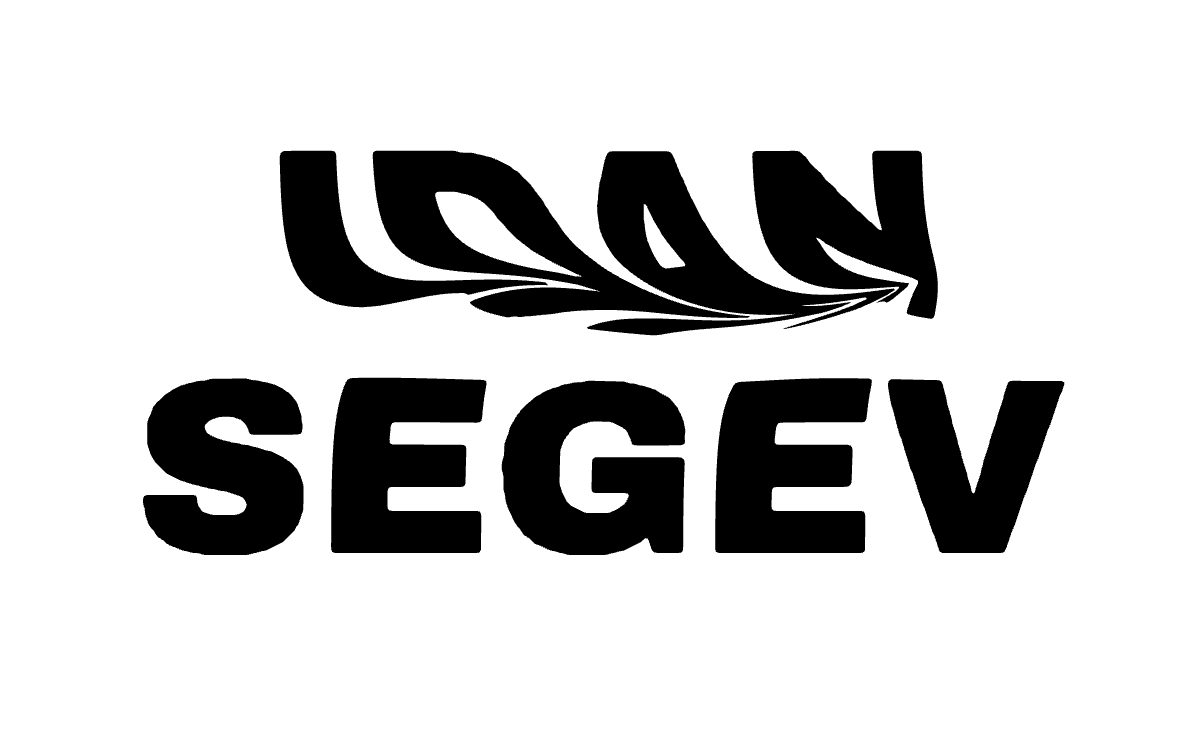
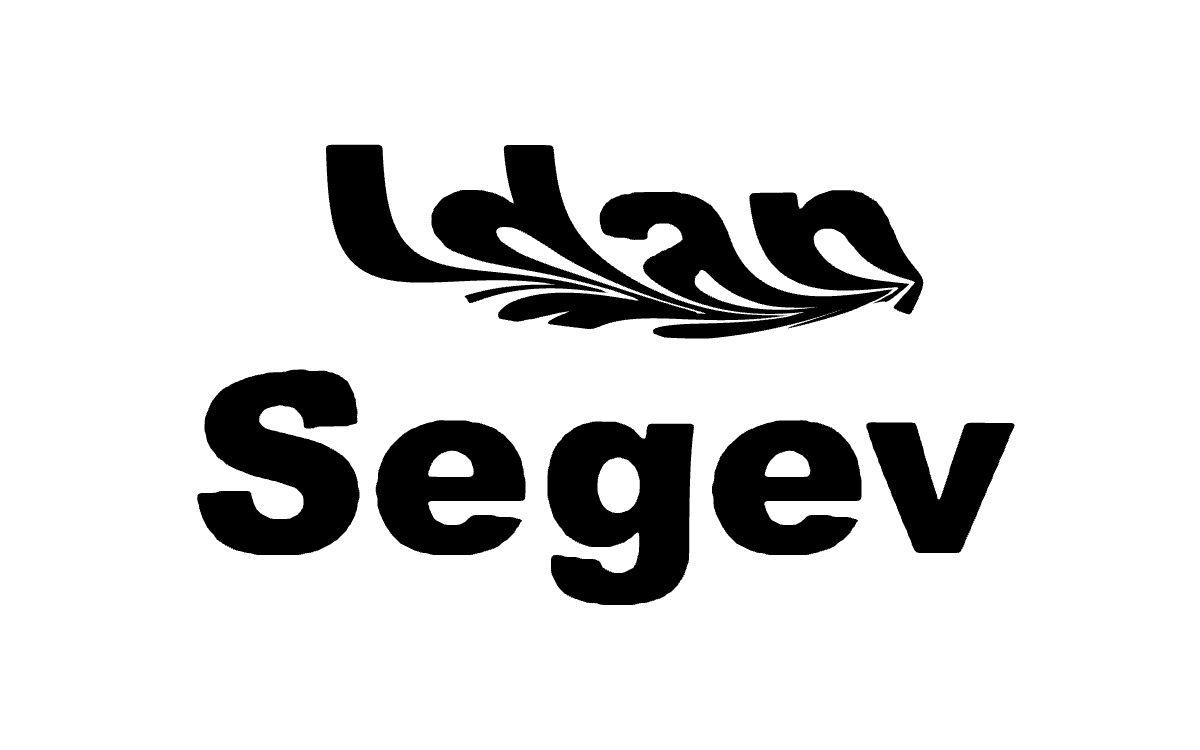
Marbled: lock and publish (Arial Black 'Idan Segev', springy hover stir, give on press)

Changed region(s): [[0.1233, 0.4907, 0.8942, 0.828], [0.2158, 0.184, 0.8017, 0.46]]

diff --git a/src/posters/marbled.js b/src/posters/marbled.js
@@ -15,7 +15,8 @@ import { createReveal, grid, corners, label, titleBlock, ink as rvInk } from './
 import { pressTracker, TAP, DOUBLE_MS, REFORM_DELAY_MS } from '../gestures.js';
 
 const MAXPTS = 90000;
-const FACE = '900 100px Archivo, "Arial Black", "Helvetica Neue", sans-serif';
+const FACE = '900 100px "Arial Black", Helvetica, "Helvetica Neue", Arial, sans-serif';
+const STIR = { cell: 10, sigma: 32, kick: 14, cap: 10, max: 20, k: 85, c: 7 };   // hover stir: a springy field under the ink, so it is drawn displaced and settles back; the shape is never changed
 const DEF = { rings: 1, teeth: 1, gap: 46, sharp: 18, pull: 0.85, drop: 54 };
 
 export async function mount(stage) {
@@ -33,10 +34,9 @@ export async function mount(stage) {
 
   // ---------- the name as ink ----------
   async function nameShape() {
-    try { await Promise.race([document.fonts.load('900 100px Archivo'), new Promise((r) => setTimeout(r, 2500))]); } catch (e) { /* the fallback face */ }
     const G = 2, gw = Math.ceil(W / G) + 2, gh = Math.ceil(H / G) + 2;
     const m = document.createElement('canvas'); m.width = gw; m.height = gh; const x = m.getContext('2d', { willReadFrequently: true });
-    const portrait = W / H < 0.8, lines = portrait ? ['IDAN', 'SE', 'GEV'] : ['IDAN', 'SEGEV'];
+    const portrait = W / H < 0.8, lines = portrait ? ['Idan', 'Se', 'gev'] : ['Idan', 'Segev'];
     x.font = FACE; const widest = Math.max(...lines.map((l) => x.measureText(l).width));
     const size = Math.min(W * 0.82 / widest * 100, H * (portrait ? 0.22 : 0.33)) / G;
     x.font = FACE.replace('100px', size + 'px'); x.textAlign = 'center'; x.fillStyle = '#000';
@@ -115,13 +115,69 @@ export async function mount(stage) {
     }
   }
 
+  // ---------- give: a held finger makes the ink yield a little and spring back, drawn only, the shape itself is never changed ----------
+  const GIVE_R = 95, GIVE_PX = 4.5;
+  const gv = { x: 0, y: 0, a: 0, v: 0, to: 0 };
+  let giving = false;
+  let sg = null, stirring = false;
+  function field() {
+    const gw = Math.ceil(W / STIR.cell) + 2, gh = Math.ceil(H / STIR.cell) + 2;
+    if (!sg || sg.gw !== gw || sg.gh !== gh) sg = { gw, gh, d: new Float32Array(gw * gh * 2), v: new Float32Array(gw * gh * 2) };
+    return sg;
+  }
+  function stir(ax, ay, bx, by) {                                     // a push into the field: velocity, so the ink swings out and comes back
+    const f = field(), dx = bx - ax, dy = by - ay, len = Math.hypot(dx, dy); if (len < 0.3) return;
+    const m = Math.min(len, STIR.cap) / len, ux = dx * m, uy = dy * m, C = STIR.cell, R = STIR.sigma * 2.2, s2 = STIR.sigma * STIR.sigma;
+    const i0 = Math.max(0, Math.floor((bx - R) / C)), i1 = Math.min(f.gw - 1, Math.ceil((bx + R) / C)), j0 = Math.max(0, Math.floor((by - R) / C)), j1 = Math.min(f.gh - 1, Math.ceil((by + R) / C));
+    for (let j = j0; j <= j1; j++) for (let i = i0; i <= i1; i++) {
+      const ex = i * C - bx, ey = j * C - by, w = Math.exp(-(ex * ex + ey * ey) / s2) * STIR.kick, o = (j * f.gw + i) * 2;
+      f.v[o] += ux * w; f.v[o + 1] += uy * w;
+    }
+    stirring = true;
+  }
+  function stepStir(dt) {
+    if (!stirring || !sg) return;
+    const h = Math.min(dt, 1 / 30), { d, v } = sg; let live = 0;
+    for (let k = 0; k < d.length; k++) {
+      v[k] += (-STIR.k * d[k] - STIR.c * v[k]) * h; d[k] += v[k] * h;
+      if (d[k] > STIR.max) d[k] = STIR.max; else if (d[k] < -STIR.max) d[k] = -STIR.max;
+      live = Math.max(live, Math.abs(d[k]) + Math.abs(v[k]) * 0.05);
+    }
+    if (live < 0.02) { d.fill(0); v.fill(0); stirring = false; }
+    dirty = true;
+  }
+  function lift(px, py) {                                             // the field under a point, bilinear
+    const C = STIR.cell, fx = px / C, fy = py / C, i = Math.floor(fx), j = Math.floor(fy);
+    if (i < 0 || j < 0 || i >= sg.gw - 1 || j >= sg.gh - 1) return [px, py];
+    const tx = fx - i, ty = fy - j, a = (j * sg.gw + i) * 2, b = a + 2, c = a + sg.gw * 2, e = c + 2, d = sg.d;
+    const w0 = (1 - tx) * (1 - ty), w1 = tx * (1 - ty), w2 = (1 - tx) * ty, w3 = tx * ty;
+    return [px + d[a] * w0 + d[b] * w1 + d[c] * w2 + d[e] * w3, py + d[a + 1] * w0 + d[b + 1] * w1 + d[c + 1] * w2 + d[e + 1] * w3];
+  }
+  function give(px, py) {
+    const dx = px - gv.x, dy = py - gv.y, d2 = dx * dx + dy * dy;
+    if (d2 > GIVE_R * GIVE_R * 6) return [px, py];
+    const d = Math.sqrt(d2) || 1, w = Math.exp(-d2 / (GIVE_R * GIVE_R)), z = gv.a * w * Math.cos(d / 26);   // a soft ring-shaped swell, like a ripple in gel
+    return [px + dx / d * z, py + dy / d * z];
+  }
+  function stepGive(dt) {
+    if (stage.reduced) return;
+    const h = Math.min(dt, 1 / 30);
+    gv.v += (170 * (gv.to - gv.a) - 7.5 * gv.v) * h; gv.a += gv.v * h;
+    const was = giving; giving = Math.abs(gv.a) > 0.02 || Math.abs(gv.v) > 0.2 || gv.to !== 0;
+    if (giving || was) dirty = true;
+  }
+
   // ---------- drawing ----------
   function draw() {
     ctx.setTransform(stage.pw / stage.W, 0, 0, stage.ph / stage.H, 0, 0);
     ctx.fillStyle = paperCss; ctx.fillRect(0, 0, W, H);
     for (const sh of shapes) {
       const path = new Path2D();
-      for (const l of sh.loops) { path.moveTo(l[0], l[1]); for (let k = 2; k < l.length; k += 2) path.lineTo(l[k], l[k + 1]); path.closePath(); }
+      for (const l of sh.loops) {
+        if (!giving && !stirring) { path.moveTo(l[0], l[1]); for (let k = 2; k < l.length; k += 2) path.lineTo(l[k], l[k + 1]); path.closePath(); continue; }
+        for (let k = 0; k < l.length; k += 2) { let q = giving ? give(l[k], l[k + 1]) : [l[k], l[k + 1]]; if (stirring) q = lift(q[0], q[1]); k ? path.lineTo(q[0], q[1]) : path.moveTo(q[0], q[1]); }
+        path.closePath();
+      }
       ctx.fillStyle = sh.tone === 'water' ? paperCss : sh.tone === 'ink' ? inkCss : sh.tone;
       ctx.fill(path, 'evenodd');
     }
@@ -129,7 +185,7 @@ export async function mount(stage) {
 
   // ---------- touch ----------
   const press = pressTracker();
-  let combing = false, last = null, lastTap = 0, pointer = null;
+  let hov = null, combing = false, last = null, lastTap = 0, pointer = null;
   const tapDrop = (x, y) => {
     const tone = col && col.woke ? col.css(stage.rand()) : 'ink';
     drop(x, y, P.drop, tone);
@@ -137,17 +193,22 @@ export async function mount(stage) {
   };
   offs.push(stage.on('down', (q, e) => {
     if (!press.down(q, e.pointerId)) return;
-    touched = true; demo = null; pointer = e.pointerId; last = { x: q.x, y: q.y }; combing = false;
+    touched = true; demo = null; pointer = e.pointerId; last = { x: q.x, y: q.y }; combing = false; gv.x = q.x; gv.y = q.y; gv.to = GIVE_PX;
   }));
   offs.push(stage.on('move', (q, e) => {
+    if (pointer === null) {                                           // a mouse moving over the ink, no button: stir it gently
+      if (e.pointerType !== 'mouse' || demo || stage.reduced || e.buttons) { hov = null; return; }
+      if (hov) { const mv = Math.hypot(q.x - hov.x, q.y - hov.y); if (mv < 90) { stir(hov.x, hov.y, q.x, q.y); touched = true; } }
+      hov = { x: q.x, y: q.y }; return;
+    }
     if (e.pointerId !== pointer) return;
     press.move(q, e.pointerId);
-    if (!combing && press.moved > TAP.px) combing = true;
+    if (!combing && press.moved > TAP.px) { combing = true; gv.to = 0; }
     if (combing) { tine(last.x, last.y, q.x, q.y); last = { x: q.x, y: q.y }; }
   }));
   offs.push(stage.on('up', (q, e) => {
     if (e.pointerId !== pointer) return;
-    const r = press.up(q, e.pointerId); pointer = null;
+    const r = press.up(q, e.pointerId); pointer = null; gv.to = 0;
     if (!r || combing) { combing = false; return; }
     if (r.tap) {
       tapDrop(q.x, q.y);
@@ -212,7 +273,7 @@ export async function mount(stage) {
   offs.push(stage.on('resize', () => { W = stage.W; H = stage.H; restart(); }));
   offs.push(stage.frame((dt) => {
     if (!touched && !demo && !stage.reduced && performance.now() - born > 3500 && !startDemo.done) { startDemo.done = true; startDemo(); }
-    stepDemo(dt);
+    stepDemo(dt); stepGive(dt); stepStir(dt);
     if (dirty) { dirty = false; draw(); }
     rv.draw();
   }));

diff --git a/docs/posters/prototypes/marbled.html b/docs/posters/prototypes/marbled.html
@@ -158,28 +158,47 @@ button:focus-visible, input:focus-visible { outline: 2px solid var(--ink); outli
   }
 
   // ---------- drawing ----------
+  // give: a held finger makes the ink yield a little and spring back (drawn only)
+  const GIVE_R = 95, GIVE_PX = 4.5, gv = { x: 0, y: 0, a: 0, v: 0, to: 0 }; let giving = false, lastT = performance.now();
+  function give(px, py) {
+    const dx = px - gv.x, dy = py - gv.y, d2 = dx * dx + dy * dy;
+    if (d2 > GIVE_R * GIVE_R * 6) return [px, py];
+    const d = Math.sqrt(d2) || 1, z = gv.a * Math.exp(-d2 / (GIVE_R * GIVE_R)) * Math.cos(d / 26);
+    return [px + dx / d * z, py + dy / d * z];
+  }
+  function stepGive() {
+    const now = performance.now(), h = Math.min((now - lastT) / 1000, 1 / 30); lastT = now;
+    gv.v += (170 * (gv.to - gv.a) - 7.5 * gv.v) * h; gv.a += gv.v * h;
+    const was = giving; giving = Math.abs(gv.a) > 0.02 || Math.abs(gv.v) > 0.2 || gv.to !== 0;
+    if (giving || was) dirty = true;
+  }
   function draw() {
     ctx.setTransform(dpr, 0, 0, dpr, 0, 0);
     ctx.fillStyle = page; ctx.fillRect(0, 0, W, H);
     const pal = PAL[dark ? 'dark' : 'light'];
     for (const sh of shapes) {
       const path = new Path2D();
-      for (const l of sh.loops) { path.moveTo(l[0], l[1]); for (let k = 2; k < l.length; k += 2) path.lineTo(l[k], l[k + 1]); path.closePath(); }
+      for (const l of sh.loops) {
+        if (!giving) { path.moveTo(l[0], l[1]); for (let k = 2; k < l.length; k += 2) path.lineTo(l[k], l[k + 1]); path.closePath(); continue; }
+        for (let k = 0; k < l.length; k += 2) { const q = give(l[k], l[k + 1]); k ? path.lineTo(q[0], q[1]) : path.moveTo(q[0], q[1]); }
+        path.closePath();
+      }
       ctx.fillStyle = sh.tone === 'water' ? page : sh.tone === 'ink' || !P.colour ? ink : pal[sh.tone % 6];
       ctx.fill(path, 'evenodd');
     }
   }
-  function frame() { if (dirty) { dirty = false; draw(); } requestAnimationFrame(frame); }
+  function frame() { stepGive(); if (dirty) { dirty = false; draw(); } requestAnimationFrame(frame); }
 
   // ---------- touch: a tap drops ink; a drag combs ----------
   let down = null, last = null, combing = false;
-  cv.addEventListener('pointerdown', (e) => { down = { x: e.clientX, y: e.clientY, t: performance.now() }; last = { x: e.clientX, y: e.clientY }; combing = false; try { cv.setPointerCapture(e.pointerId); } catch (err) { /* fine */ } });
+  cv.addEventListener('pointerdown', (e) => { down = { x: e.clientX, y: e.clientY, t: performance.now() }; last = { x: e.clientX, y: e.clientY }; combing = false; gv.x = e.clientX; gv.y = e.clientY; gv.to = GIVE_PX; try { cv.setPointerCapture(e.pointerId); } catch (err) { /* fine */ } });
   cv.addEventListener('pointermove', (e) => {
     if (!down) return;
-    if (!combing && Math.hypot(e.clientX - down.x, e.clientY - down.y) > 8) combing = true;
+    if (!combing && Math.hypot(e.clientX - down.x, e.clientY - down.y) > 8) { combing = true; gv.to = 0; }
     if (combing) { tine(last.x, last.y, e.clientX, e.clientY); last = { x: e.clientX, y: e.clientY }; }
   });
   cv.addEventListener('pointerup', (e) => {
+    gv.to = 0;
     if (down && !combing && performance.now() - down.t < 400) {
       const tone = P.colour ? drops % 6 : 'ink'; drops++;
       drop(e.clientX, e.clientY, P.drop, tone);
@@ -187,7 +206,7 @@ button:focus-visible, input:focus-visible { outline: 2px solid var(--ink); outli
     }
     down = null; combing = false;
   });
-  cv.addEventListener('pointercancel', () => { down = null; combing = false; });
+  cv.addEventListener('pointercancel', () => { gv.to = 0; down = null; combing = false; });
 
   // ---------- settings (for this test only) ----------
   const fmt = { teeth: (v) => v, gap: (v) => v + ' px', sharp: (v) => v + ' px', pull: (v) => '×' + (+v).toFixed(2), drop: (v) => v + ' px' };

diff --git a/src/posters/index.js b/src/posters/index.js
@@ -230,12 +230,11 @@ export const POSTERS = [
     colour: 'native',            // colours itself (src/colour.js colourOf): the shell adds no overlay
     title: 'Marbled',
     words: ['Idan', 'Segev'],
-    blurb: 'The name floats as ink on water. Drag to comb it into marbled patterns; tap to drop more ink.',
+    blurb: 'The name floats as ink on water. Stir it, drag to comb it into marbled patterns, tap to drop more ink.',
     hint: null,
     themes: { dark: 0.5, light: 0.5 },
-    draft: true,               // pulled from the launch set 18 Oct 2026: needs more refinement first
     load: () => import('./marbled.js'),
-    prompt: "The name \"Idan Segev\" as ink floating on water, like Japanese suminagashi marbling, as black-and-white vector shapes on a canvas. Trace the outline of the heavy type into closed loops of points and apply every move to those points so the ink stays sharp. A tap drops ink: push all the ink outward around the tap keeping its area (p' = c + (p - c) * sqrt(1 + r^2 / |p - c|^2)), then drop clear water into the middle so it lands as a ring. A drag combs: drag every point beside the stroke along it, less the farther away (an exponential falloff), and keep curves smooth by inserting a point wherever a stretch has opened a gap. Nothing ever resets by itself.",
+    prompt: "The name \"Idan Segev\" as ink floating on water, like Japanese suminagashi marbling, as black-and-white vector shapes on a canvas. Set it in a heavy Helvetica-style black (Arial Black) and trace its outline into closed loops of points and apply every move to those points so the ink stays sharp. A tap drops ink: push all the ink outward around the tap keeping its area (p' = c + (p - c) * sqrt(1 + r^2 / |p - c|^2)), then drop clear water into the middle so it lands as a ring. A drag combs: drag every point beside the stroke along it, less the farther away (an exponential falloff), and keep curves smooth by inserting a point wherever a stretch has opened a gap. A mouse moving over the ink without a button gently stirs it: draw the ink displaced by a springy field that the mouse pushes and that swings back and settles, never changing the shapes. Pressing and holding makes the ink give slightly under the finger. Nothing ever resets by itself.",
   },
   {
     slug: 'glint',

diff --git a/docs/INTERACTIONS.md b/docs/INTERACTIONS.md
@@ -93,7 +93,8 @@ Hover the top-left corner and a quiet "Posters" appears (on a touch screen it is
 | Hold | nothing |
 | Double tap (empty) | start again: the clean name (a beat later, so a third tap can still mean reveal) |
 | Three taps (reveal) | page inverts; every shape's outline and points, and each drop with its ring |
-| Self-demo | one slow comb stroke through the name at 3.5 s, until the first touch; off under reduced motion |
+| Face | "Idan Segev" in Arial Black (Helvetica Bold where it is missing) |
+| Self-demo | one slow comb stroke through the name at 3.5 s, until the first touch or hover; off under reduced motion |
 | Reduced motion | no self-demo; everything else is touch |
 | Colour (rare) | from the first touch, each drop of ink is a colour from the palette |
 
@@ -104,6 +105,7 @@ Hover the top-left corner and a quiet "Posters" appears (on a touch screen it is
 | Hover / drag | the lamp follows the mouse, or a finger |
 | Tap / hold | nothing more: the lamp is where you put it |
 | Double tap | nothing |
+| Hover (mouse) | gently stirs the ink: it is drawn displaced by a springy field the mouse pushes, swings back with a small bounce and settles exactly where it was; the shapes are never changed. Counts as the first touch (no self-demo after) |
 | Three taps (reveal) | page inverts; the lamp, the rays it throws, its position and height, the bevel and reach |
 | Self-demo | the lamp takes one slow turn through the name at 3.5 s, then stops; off under reduced motion |
 | Light page | the whole picture is inverted (a negative) |
@@ -118,7 +120,7 @@ Hover the top-left corner and a quiet "Posters" appears (on a touch screen it is
 | Tap on a fin | it grows or shrinks once and settles, its shadow with it (under 250 ms, 8 px) |
 | Drag on background | orbits the camera; the light holds still |
 | Tap on background | nothing |
-| Hold | nothing |
+| Hold | the ink under the finger gives a few pixels, in a soft ring, and springs back on release (drawn only) |
 | Keys | 1 front, 2 side, 3 top, 4 from the light; L shows the light |
 | Double tap (empty) | a new plan (a beat later) |
 | Three taps (reveal) | page inverts; the far edge of every run and a ray along each shadow, the light and its slant |
